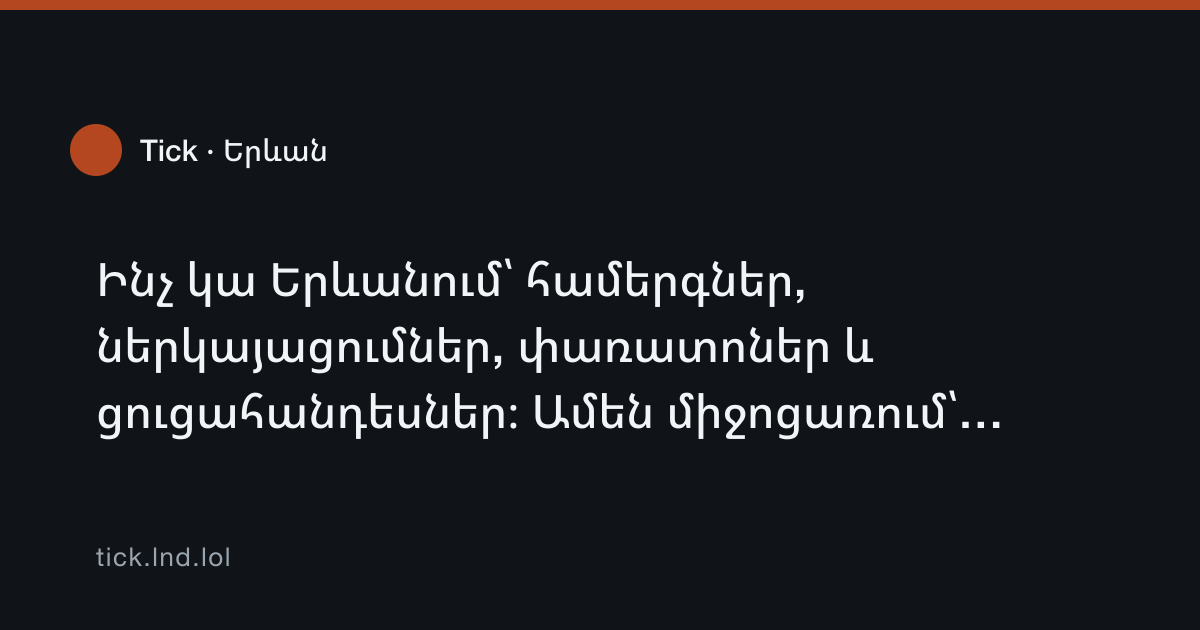
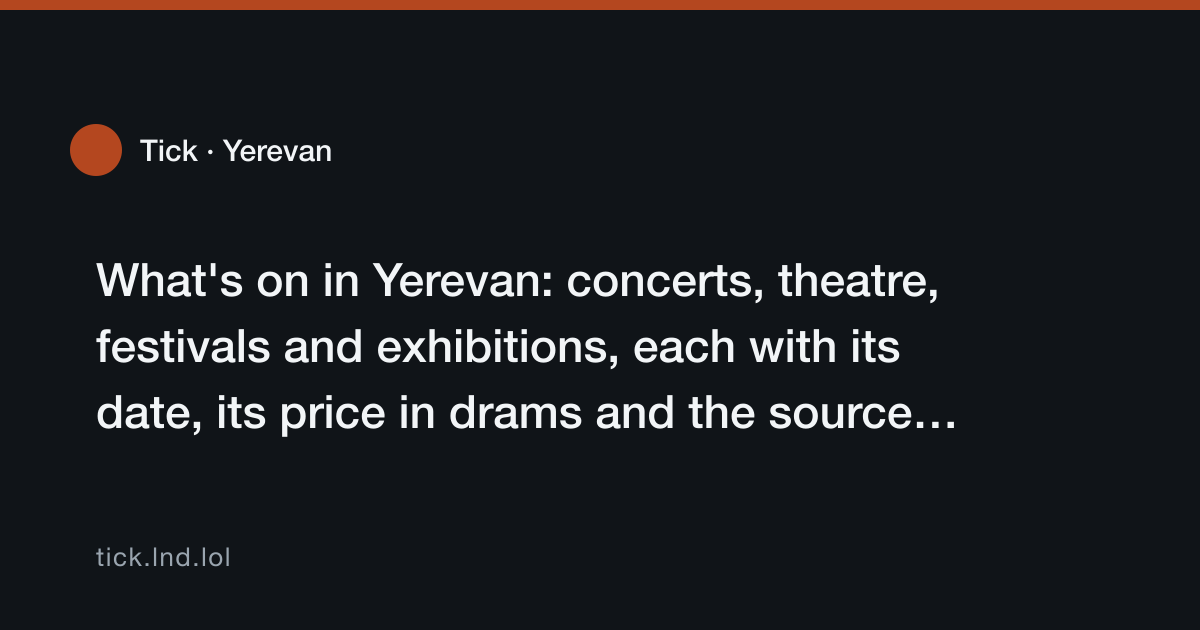
tick: English at the root, Armenian under /hy/
English is the default language and x-default; every Armenian page keeps
its twin at the same address under /hy/.

Changed region(s): [[0.0617, 0.5127, 0.8325, 0.6937], [0.0617, 0.3921, 0.8017, 0.4825], [0.185, 0.2111, 0.2775, 0.2714]]

diff --git a/apps/tick/src/i18n.ts b/apps/tick/src/i18n.ts
@@ -1,7 +1,7 @@
 // How a page knows its language, and how it finds itself in the other one.
 //
 // One entry carries both languages: Armenian in its own fields, English
-// in `i18n.en` (see @dst/content/i18n). So every page exists in both or in
+// in `i18n.en` — whichever of them has the root (see @dst/content/i18n). So every page exists in both or in
 // neither, and the address of its twin is its own with the prefix swapped —
 // which is what makes the hreflang pair and the switch in the header safe
 // to derive rather than declare.
@@ -13,8 +13,8 @@ import { siteId, LANGS, type Lang } from "./content";
 /** <html lang> and Intl: the language and where it is spoken. */
 export const LOCALE: Record<Lang, string> = { hy: "hy-AM", en: "en-GB" };
 
-/** Where a language keeps its pages. Armenian has the root. */
-export const prefix = (lang: Lang): string => (lang === "hy" ? "/" : "/en/");
+/** Where a language keeps its pages. English has the root. */
+export const prefix = (lang: Lang): string => (lang === "en" ? "/" : "/hy/");
 
 export const eventsBase = (lang: Lang) => `${prefix(lang)}events/`;
 export const newsBase = (lang: Lang) => `${prefix(lang)}news/`;
@@ -33,7 +33,7 @@ const SWITCH: Record<Lang, { label: string; title: string }> = {
 
 /** The page at `pathname` in every language, its own included. */
 export function alternates(pathname: string) {
-  const rest = pathname.replace(/^\/en(\/|$)/, "/").replace(/^\//, "");
+  const rest = pathname.replace(/^\/hy(\/|$)/, "/").replace(/^\//, "");
   return LANGS.map((lang) => ({ lang, href: `${prefix(lang)}${rest}`, ...SWITCH[lang] }));
 }
 

diff --git a/packages/ui/src/schema.ts b/packages/ui/src/schema.ts
@@ -85,10 +85,10 @@ export interface PageGraphInput {
       has to say so here as well as in `<html lang>`, or the markup tells a
       crawler the opposite of what the page does. */
   lang?: string;
-  /** Where this page's language keeps its front page, e.g. "/en/". A site
+  /** Where this page's language keeps its front page, e.g. "/hy/". A site
       in two languages has two homes, and a breadcrumb that started every
-      English page from the Armenian one — through a crumb named after the
-      "en" in the address — would be a trail back to a page the reader
+      Armenian page from the English one — through a crumb named after the
+      "hy" in the address — would be a trail back to a page the reader
       cannot read. Defaults to the root, which is every one-language site. */
   home?: string;
 }
@@ -122,7 +122,7 @@ function breadcrumbs(input: PageGraphInput) {
     path += `/${segment}`;
     const last = i === segments.length - 1;
     // The nav is keyed by its whole href, so under a language prefix the
-    // menu's "/en/events/" names the crumb for "events" as well.
+    // menu's "/hy/events/" names the crumb for "events" as well.
     const fromNav = navLabel.get(path.replace(/^\/+/, "")) ?? navLabel.get(segment);
     items.push({
       name: last ? withoutSuffix(input.title) : (fromNav ?? titleFromSlug(segment)),

diff --git a/tests/layout.spec.js b/tests/layout.spec.js
@@ -44,10 +44,10 @@ const PAGES = [
   // tick is in two languages, and Armenian runs longer than English in
   // every label: both halves of the same templates are measured.
   { site: "tick", path: "/" },
-  { site: "tick", path: "/en/" },
+  { site: "tick", path: "/hy/" },
   { site: "tick", path: "/events/equinox-fest-autumn-chapter-2026/" },
-  { site: "tick", path: "/en/events/equinox-fest-autumn-chapter-2026/" },
-  { site: "tick", path: "/about/" },
+  { site: "tick", path: "/hy/events/equinox-fest-autumn-chapter-2026/" },
+  { site: "tick", path: "/hy/about/" },
 ];
 
 const url = (site, path) => `${baseUrl(site)}${path}`;
@@ -81,9 +81,9 @@ test.describe("no horizontal overflow", () => {
 // and the page it lands on has to say which language it is in.
 test.describe("language switch", () => {
   const CASES = [
-    ["/events/equinox-fest-autumn-chapter-2026/", "/en/events/equinox-fest-autumn-chapter-2026/", "en-GB"],
-    ["/en/about/", "/about/", "hy-AM"],
-    ["/concerts/", "/en/concerts/", "en-GB"],
+    ["/events/equinox-fest-autumn-chapter-2026/", "/hy/events/equinox-fest-autumn-chapter-2026/", "hy-AM"],
+    ["/hy/about/", "/about/", "en-GB"],
+    ["/concerts/", "/hy/concerts/", "hy-AM"],
   ];
   for (const [from, to, lang] of CASES) {
     test(`tick${from} switches to ${to}`, async ({ page }) => {

diff --git a/apps/tick/src/content.ts b/apps/tick/src/content.ts
@@ -1,8 +1,8 @@
 import { HY, EN } from "@dst/ui/labels";
 import type { ArticleLabels } from "@dst/ui/labels";
 
-// tick publishes in two languages: Armenian at the root, English under
-// /en/. Every string below exists once per language and is picked by the
+// tick publishes in two languages: English at the root, Armenian under
+// /hy/. Every string below exists once per language and is picked by the
 // page's own `lang` — see ./i18n.ts for how a page knows which it is.
 //
 // The English is written for a British reader with a light touch of the
@@ -11,7 +11,9 @@ import type { ArticleLabels } from "@dst/ui/labels";
 
 export const siteId = "tick";
 
-export const LANGS = ["hy", "en"] as const;
+// In this order on purpose: the first is the default, the one hreflang
+// sends a reader to when their language is neither (`x-default`).
+export const LANGS = ["en", "hy"] as const;
 export type Lang = (typeof LANGS)[number];
 
 // The site publishes itself: it is independent of the DST group, so every

diff --git a/tests/structured-data.test.js b/tests/structured-data.test.js
@@ -115,8 +115,8 @@ describe("the network graph", () => {
   // Crawlers build the breadcrumb trail in the results page from this, and
   // from the raw URL when it is missing — which on a vertical means the
   // bare hostname.
-  // A site in two languages has a home per language — tick's English one is
-  // /en/ — and a home is wherever the wordmark leads: that link is the one
+  // A site in two languages has a home per language — tick's Armenian one
+  // is /hy/ — and a home is wherever the wordmark leads: that link is the one
   // place every page says which front page it belongs to.
   const homeOf = (p) => attr(p.html, /<a class="site-name" href="([^"]*)"/) ?? "/";
   const isHome = (p) => p.url === "/" || homeOf(p) === p.url;

diff --git a/apps/tick/src/site.config.ts b/apps/tick/src/site.config.ts
@@ -27,7 +27,7 @@ export const site: Record<Lang, {
     // inflects it — Երևանում, Երևանի — and both count as saying it.
     keyword: "Երևան",
     lang: "hy-AM",
-    footerLinks: [{ href: "/about/", label: "Մեր մասին" }],
+    footerLinks: [{ href: "/hy/about/", label: "Մեր մասին" }],
     feedTitle: feed.hy.title,
   },
   en: {
@@ -37,7 +37,7 @@ export const site: Record<Lang, {
     titleSuffix: "Yerevan",
     keyword: "Yerevan",
     lang: "en-GB",
-    footerLinks: [{ href: "/en/about/", label: "About" }],
+    footerLinks: [{ href: "/about/", label: "About" }],
     feedTitle: feed.en.title,
   },
 };

diff --git a/apps/tick/src/sections.ts b/apps/tick/src/sections.ts
@@ -17,8 +17,8 @@ import { type Lang } from "./content";
 import { eventsFor, newsFor, prefix } from "./i18n";
 import { site } from "./site.config";
 
-// "en" is a slug too: it is where the English pages live.
-const RESERVED = ["about", "events", "news", "go", "li", "en"];
+// "hy" is a slug too: it is where the Armenian pages live.
+const RESERVED = ["about", "events", "news", "go", "li", "hy"];
 
 const KINDS: { slug: string; hy: string; en: string }[] = [
   { slug: "concerts", hy: "Համերգներ", en: "Concerts" },

diff --git a/apps/tick/src/feeds.ts b/apps/tick/src/feeds.ts
@@ -1,7 +1,7 @@
 // The site's machine-readable feeds, once per language: news as RSS at
 // rss.xml, the calendar as .ics — one file per event to import, and the
 // whole of it at events.ics to subscribe to. The route files under pages/
-// and pages/en/ are one line each and call into here.
+// and pages/hy/ are one line each and call into here.
 //
 // Summaries, not full text — see the note in @dst/content/rss. Events are
 // not in the RSS: they have no publication date to sort by, which is what

diff --git a/apps/tick/src/pages/hy/events/[slug].ics.ts b/apps/tick/src/pages/hy/events/[slug].ics.ts
@@ -5,7 +5,7 @@ import type { EventItem } from "@dst/content/types";
 import { icsPaths, oneEvent } from "../../../feeds";
 
 export function getStaticPaths() {
-  return icsPaths("en");
+  return icsPaths("hy");
 }
 
-export const GET: APIRoute = ({ props }) => oneEvent("en", (props as { item: EventItem }).item);
+export const GET: APIRoute = ({ props }) => oneEvent("hy", (props as { item: EventItem }).item);

diff --git a/apps/tick/src/pages/events/[slug].ics.ts b/apps/tick/src/pages/events/[slug].ics.ts
@@ -5,7 +5,7 @@ import type { EventItem } from "@dst/content/types";
 import { icsPaths, oneEvent } from "../../feeds";
 
 export function getStaticPaths() {
-  return icsPaths("hy");
+  return icsPaths("en");
 }
 
-export const GET: APIRoute = ({ props }) => oneEvent("hy", (props as { item: EventItem }).item);
+export const GET: APIRoute = ({ props }) => oneEvent("en", (props as { item: EventItem }).item);

diff --git a/apps/tick/src/pages/hy/events.ics.ts b/apps/tick/src/pages/hy/events.ics.ts
@@ -2,4 +2,4 @@
 import type { APIRoute } from "astro";
 import { wholeCalendar } from "../../feeds";
 
-export const GET: APIRoute = () => wholeCalendar("en");
+export const GET: APIRoute = () => wholeCalendar("hy");

diff --git a/apps/tick/src/pages/events.ics.ts b/apps/tick/src/pages/events.ics.ts
@@ -2,4 +2,4 @@
 import type { APIRoute } from "astro";
 import { wholeCalendar } from "../feeds";
 
-export const GET: APIRoute = () => wholeCalendar("hy");
+export const GET: APIRoute = () => wholeCalendar("en");
